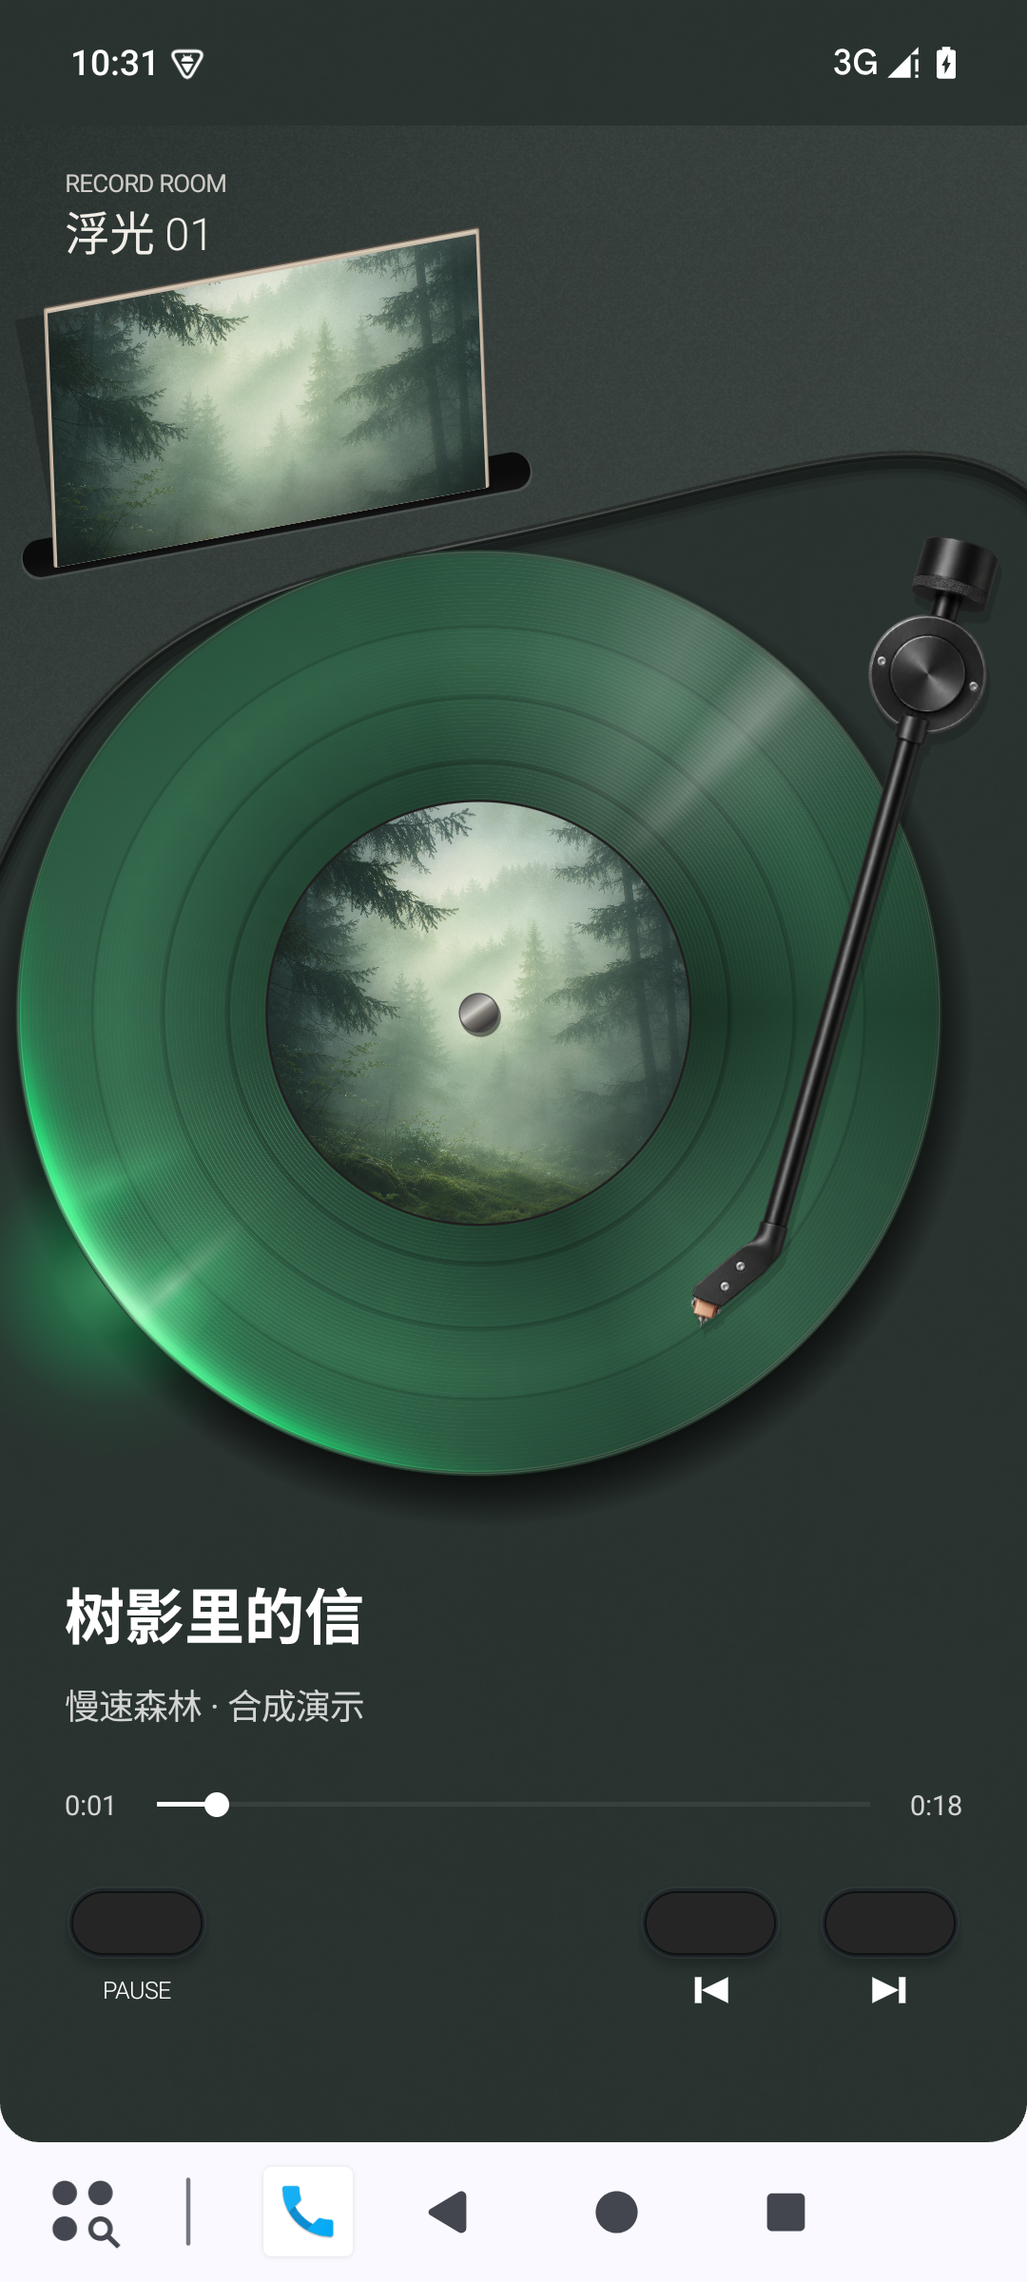
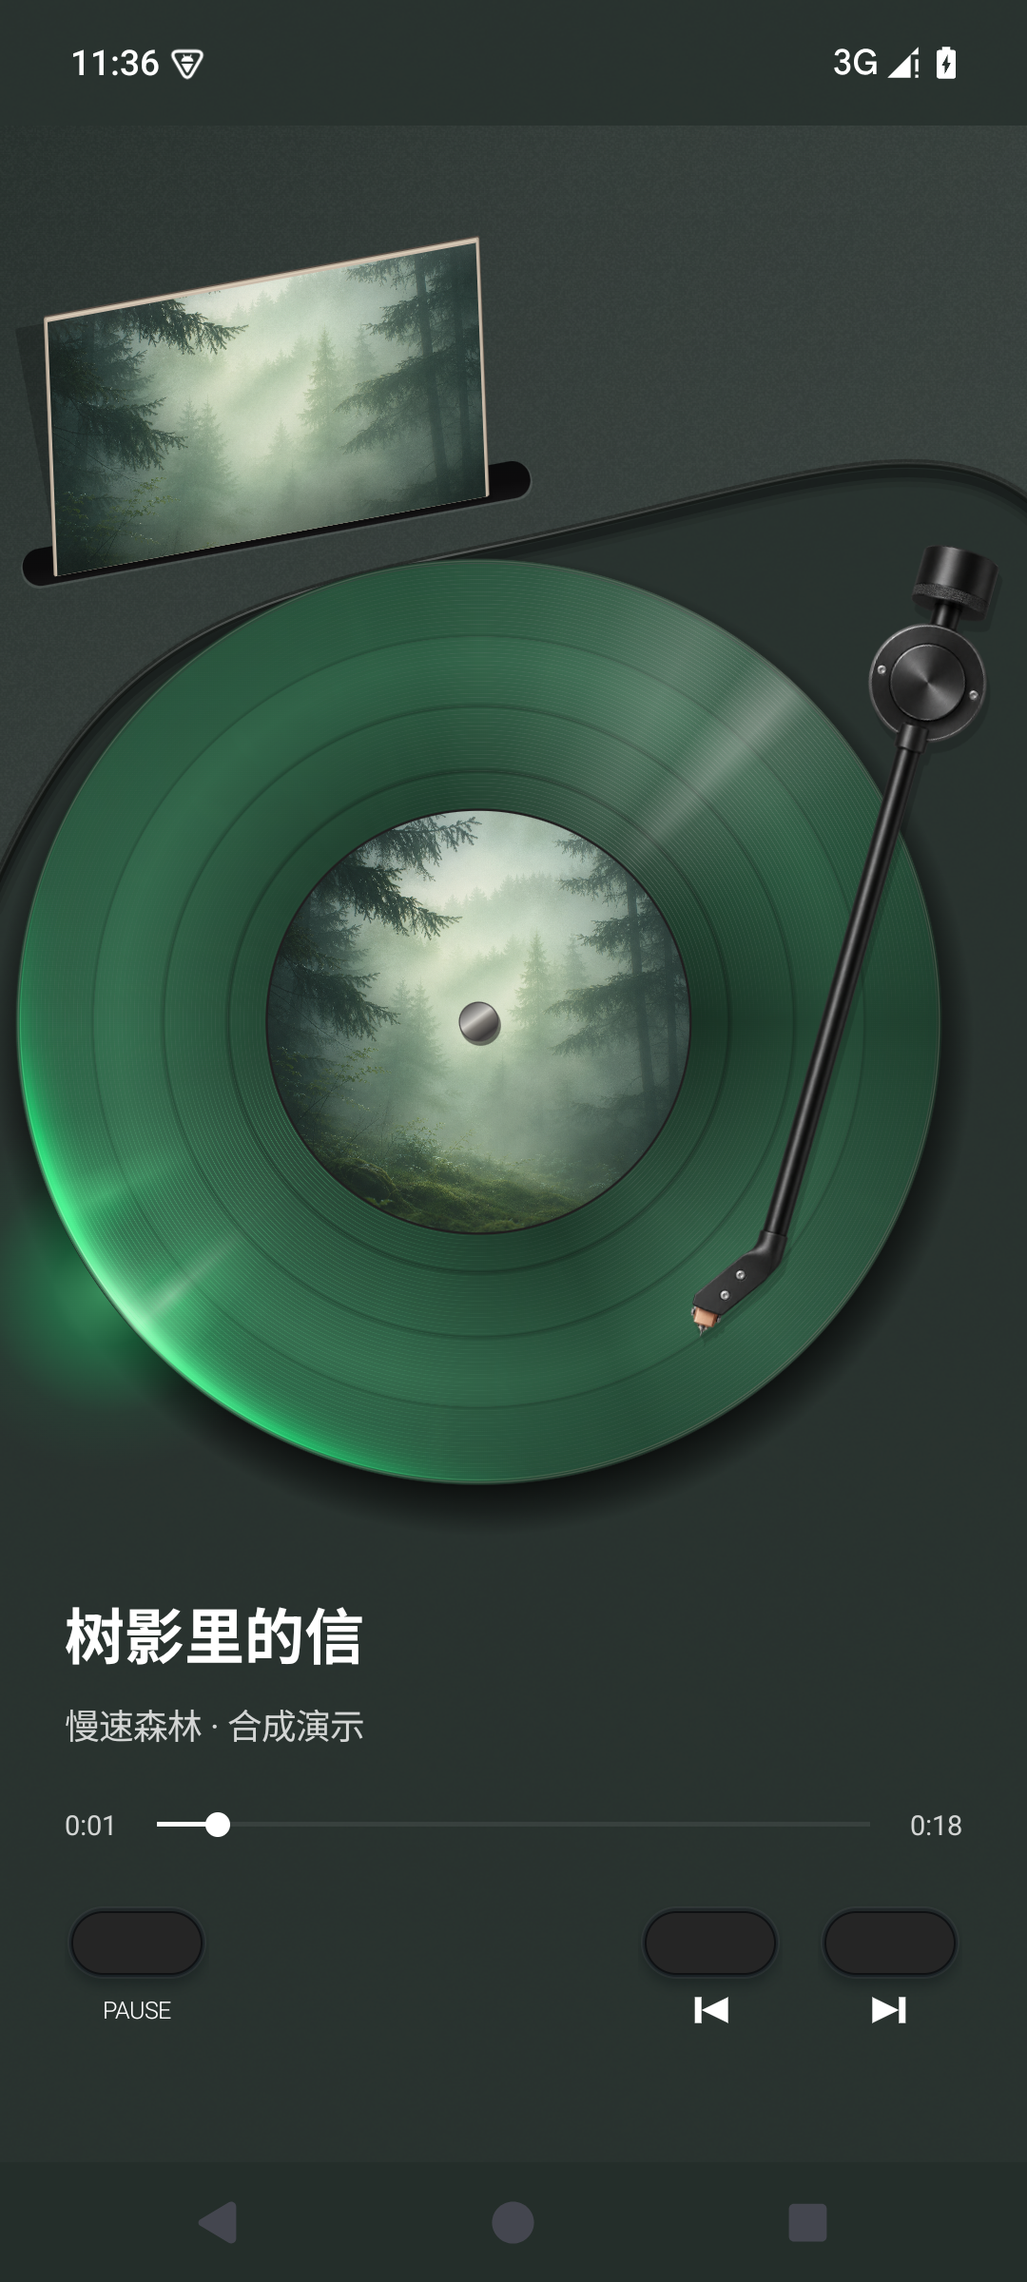
Release 0.7.9 with a clean turntable faceplate

diff --git a/app/src/main/java/com/recordroom/vinyl/FuguangDeck.java b/app/src/main/java/com/recordroom/vinyl/FuguangDeck.java
@@ -3,7 +3,6 @@ package com.recordroom.vinyl;
 import android.graphics.Bitmap;
 import android.graphics.BitmapShader;
 import android.graphics.Canvas;
-import android.graphics.Color;
 import android.graphics.LinearGradient;
 import android.graphics.Matrix;
 import android.graphics.Paint;
@@ -11,14 +10,12 @@ import android.graphics.Path;
 import android.graphics.Rect;
 import android.graphics.RectF;
 import android.graphics.Shader;
-import android.graphics.Typeface;
 
 /** Stationary moulded chassis and a jacket seated in its rear pocket.
  * Geometry and materials are prepared on resize, never while the platter spins. */
 final class FuguangDeck {
     private final Paint p = new Paint(Paint.ANTI_ALIAS_FLAG | Paint.DITHER_FLAG);
     private final Paint art = new Paint(Paint.ANTI_ALIAS_FLAG | Paint.FILTER_BITMAP_FLAG);
-    private final Paint lettering = new Paint(Paint.ANTI_ALIAS_FLAG | Paint.SUBPIXEL_TEXT_FLAG);
     private final Path top = new Path(), seam = new Path();
     private final RectF pocket = new RectF(), sleeve = new RectF(), inward = new RectF();
     private final Matrix noiseScale = new Matrix();
@@ -40,18 +37,8 @@ final class FuguangDeck {
     }
     private final BitmapShader grainShader = new BitmapShader(grainTile(),Shader.TileMode.REPEAT,Shader.TileMode.REPEAT);
     private Shader upperLight, edgeLight, socket, jacketShading;
-    private float u, left, bottom, tilt, headerX, brandY, modelY, brandSize, modelSize;
-    private boolean showSleeve, lightCase;
-    private int baseColor = 0xff242120;
-    private final Typeface brand = Typeface.create("sans-serif",Typeface.NORMAL);
-    private final Typeface model = Typeface.create("sans-serif-light",Typeface.NORMAL);
-
-    boolean setColor(int base) {
-        if(base==baseColor) return false;
-        baseColor = base;
-        lightCase = Color.luminance(baseColor) > .34;
-        return true;
-    }
+    private float u, left, bottom, tilt;
+    private boolean showSleeve;
 
     void prepare(int width, int height, float cy, float radius, float density) {
         // u is a pixel in the 842-wide concept, scaled to the available machine, not to the screen diagonal.
@@ -74,15 +61,10 @@ final class FuguangDeck {
         noiseScale.setScale(Math.max(.72f,Math.min(1.45f,density*.72f)),Math.max(.72f,Math.min(1.45f,density*.72f)));
         grainShader.setLocalMatrix(noiseScale);
 
-        headerX = Math.min(w*.070f,26*density);
-        brandSize = Math.max(8*density,Math.min(10*density,20*u));
-        modelSize = Math.max(14*density,Math.min(19*density,37*u));
-        brandY = Math.min(38*u,17*density) + brandSize;
-        modelY = brandY + modelSize*1.28f;
-
-        // Allocate the pocket in available space ABOVE the disc. Short viewports
-        // keep the artwork recognisable without drawing through transport controls.
-        float clearTop = modelY + 10*density;
+        // Reserve the upper controls' inset before sizing the sleeve.
+        float compactInset = Math.max(8*density, Math.min(10*density, 20*u));
+        float largeInset = Math.max(14*density, Math.min(19*density, 37*u));
+        float clearTop = Math.min(38*u, 17*density) + compactInset + largeInset*1.28f + 10*density;
         bottom = Math.max(0, rear-18*u);
         // On a shorter machine the platter only reaches this height at its centre.
         // Nest the jacket into the empty upper-left shoulder; draw order naturally
@@ -92,9 +74,8 @@ final class FuguangDeck {
         if(shallow)bottom+=Math.min(radius*.29f, clearTop+desiredRise-bottom);
         float available = bottom - clearTop;
         if (available<37*density && width>=144*density) {
-            // Very shallow landscape: pair the nameplate and the jacket horizontally.
-            // The nameplate remains in the left-hand player pane, away from controls.
-            headerX=w*.56f; clearTop=7*density; available=bottom-clearTop;
+            // Use the upper-left shoulder when vertical space is scarce.
+            clearTop=7*density; available=bottom-clearTop;
         }
         showSleeve = available >= 16*density && width >= 112*density && height >= 98*density;
         if (!showSleeve) return;
@@ -121,10 +102,6 @@ final class FuguangDeck {
         p.setShader(grainShader);p.setAlpha(118);c.drawPath(top,p);p.setShader(null);p.setAlpha(255);
         p.setStyle(Paint.Style.STROKE);p.setStrokeWidth(Math.max(.65f,1.7f*u));p.setShader(edgeLight);c.drawPath(seam,p);p.setShader(null);p.setStyle(Paint.Style.FILL);
         if (showSleeve) drawJacket(c,cover);
-        lettering.setTypeface(brand);lettering.setTextSize(brandSize);lettering.setColor(lightCase?0xff413d39:0xffcfccc7);
-        c.drawText("RECORD ROOM",headerX,brandY,lettering);
-        lettering.setTypeface(model);lettering.setTextSize(modelSize);lettering.setColor(lightCase?0xff211f1d:0xfff1eee8);
-        c.drawText("浮光 01",headerX,modelY,lettering);
     }
 
     private void drawJacket(Canvas c,Bitmap cover) {

diff --git a/tools/native-qa/tests/com/recordroom/vinyl/AutomaticCoverColorTest.java b/tools/native-qa/tests/com/recordroom/vinyl/AutomaticCoverColorTest.java
@@ -41,8 +41,8 @@ public class AutomaticCoverColorTest {
         ThemeStore themes=new ThemeStore(context);Bitmap red=solid(0xffe02935),blue=solid(0xff2362d8);AlbumPalette warm=AlbumPalette.from(red),cool=AlbumPalette.from(blue);
         FrameLayout host=new FrameLayout(context);TurntableView turntable=new TurntableView(context);turntable.setReferenceLayout(true);turntable.setMotionEnabled(false);turntable.setLighting(0);host.addView(turntable,new FrameLayout.LayoutParams(-1,-1));controller.get().setContentView(host);layout(host);
         try{for(int style=0;style<DiscMaterials.COUNT;style++){
-            turntable.setStyle(style);awaitAssets();themes.coverPalette("warm",warm);int warmBase = DesignSystem.deckColor(themes,"warm");host.setBackground(DesignSystem.surface(context,warmBase));turntable.setDeckColor(warmBase);turntable.setArtwork(red);turntable.setRecordTint(themes.deckTint("warm"));Bitmap first=render(host);
-            themes.coverPalette("cool",cool);int coolBase = DesignSystem.deckColor(themes,"cool");host.setBackground(DesignSystem.surface(context,coolBase));turntable.setDeckColor(coolBase);turntable.setArtwork(blue);turntable.setRecordTint(themes.deckTint("cool"));Bitmap second=render(host);
+            turntable.setStyle(style);awaitAssets();themes.coverPalette("warm",warm);int warmBase = DesignSystem.deckColor(themes,"warm");host.setBackground(DesignSystem.surface(context,warmBase));turntable.setArtwork(red);turntable.setRecordTint(themes.deckTint("warm"));Bitmap first=render(host);
+            themes.coverPalette("cool",cool);int coolBase = DesignSystem.deckColor(themes,"cool");host.setBackground(DesignSystem.surface(context,coolBase));turntable.setArtwork(blue);turntable.setRecordTint(themes.deckTint("cool"));Bitmap second=render(host);
             float cx=ReflectionHelpers.getField(turntable,"cx"),cy=ReflectionHelpers.getField(turntable,"cy"),radius=ReflectionHelpers.getField(turntable,"radius");double[] a=ring(first,cx,cy,radius),b=ring(second,cx,cy,radius);
             System.out.println("AUTO_MATERIAL style="+style+" red_delta="+(a[0]-b[0])+" blue_delta="+(b[2]-a[2]));
             if(style==0||style==5||style==8){write(first,"automatic-red-material-"+style+".png");write(second,"automatic-blue-material-"+style+".png");}

diff --git a/tools/native-qa/tests/com/recordroom/vinyl/CoverContrastRefinementTest.java b/tools/native-qa/tests/com/recordroom/vinyl/CoverContrastRefinementTest.java
@@ -34,7 +34,7 @@ public class CoverContrastRefinementTest {
   for(int i=0;i<colors.length;i++){
    Bitmap cover=Bitmap.createBitmap(128,128,Bitmap.Config.ARGB_8888);cover.eraseColor(colors[i]);AlbumPalette palette=AlbumPalette.from(cover);themes.coverPalette("fixture",palette);int stage=DesignSystem.stageColor(themes,"fixture");DesignSystem.setAlbumTheme(context,"fixture",stage,palette.record);turntable.setArtwork(cover);turntable.setRecordTint(themes.deckTint("fixture"));
    for(int material:new int[]{0,5,8}){
-    themes.save("fixture",false,material,0xff222222);stage=DesignSystem.stageColor(themes,"fixture");int deck=DesignSystem.deckColor(themes,"fixture");host.setBackground(DesignSystem.surface(context,deck));turntable.setDeckColor(deck);DesignSystem.setAlbumTheme(context,"fixture",stage,palette.record);turntable.setStyle(material);assets.submit(()->{}).get(10,java.util.concurrent.TimeUnit.SECONDS);Shadows.shadowOf(android.os.Looper.getMainLooper()).idle();Bitmap image=Bitmap.createBitmap(412,860,Bitmap.Config.ARGB_8888);host.draw(new Canvas(image));
+    themes.save("fixture",false,material,0xff222222);stage=DesignSystem.stageColor(themes,"fixture");int deck=DesignSystem.deckColor(themes,"fixture");host.setBackground(DesignSystem.surface(context,deck));DesignSystem.setAlbumTheme(context,"fixture",stage,palette.record);turntable.setStyle(material);assets.submit(()->{}).get(10,java.util.concurrent.TimeUnit.SECONDS);Shadows.shadowOf(android.os.Looper.getMainLooper()).idle();Bitmap image=Bitmap.createBitmap(412,860,Bitmap.Config.ARGB_8888);host.draw(new Canvas(image));
     float cx=org.robolectric.util.ReflectionHelpers.getField(turntable,"cx"),cy=org.robolectric.util.ReflectionHelpers.getField(turntable,"cy"),r=org.robolectric.util.ReflectionHelpers.getField(turntable,"radius");double ring=0;int n=0;
     for(int degrees=105;degrees<=255;degrees+=5){double a=Math.toRadians(degrees);int pixel=image.getPixel(Math.round(cx+(float)Math.cos(a)*r*.74f),Math.round(cy+(float)Math.sin(a)*r*.74f));ring+=Color.luminance(pixel);n++;}
     double separation=(ring/n+.05)/(Color.luminance(image.getPixel(12,600))+.05);assertTrue("Actual textured record must remain distinguishable: "+names[i]+"/"+material+" ratio="+separation,separation>=1.5);

diff --git a/app/src/main/java/com/recordroom/vinyl/MainActivity.java b/app/src/main/java/com/recordroom/vinyl/MainActivity.java
@@ -442,7 +442,7 @@ public final class MainActivity extends Activity {
             }else root.setBackground(nextSurface);
             playerSurface=nextSurface;playerSurfaceColor=color;
         }
-        turntable.setDeckColor(color);turntable.setStyle(themes.disc(albumKey()));turntable.setRecordTint(themes.deckTint(albumKey()));
+        turntable.setStyle(themes.disc(albumKey()));turntable.setRecordTint(themes.deckTint(albumKey()));
         turntable.setMotionEnabled(themes.motion()); turntable.setLighting(themes.lighting());
         if(themes.keepAwake())getWindow().addFlags(WindowManager.LayoutParams.FLAG_KEEP_SCREEN_ON);else getWindow().clearFlags(WindowManager.LayoutParams.FLAG_KEEP_SCREEN_ON);
         ink = readableInk(color); mutedInk = blend(ink,color,.20f);

diff --git a/app/src/main/java/com/recordroom/vinyl/TurntableView.java b/app/src/main/java/com/recordroom/vinyl/TurntableView.java
@@ -102,7 +102,6 @@ public final class TurntableView extends View {
         if (referenceLayout) {rebuild(); invalidate();}
     }
     /** Keep faceplate lettering readable when users select a light manual finish. */
-    public void setDeckColor(int color) { if(cabinet.setColor(color)) invalidate(); }
 
     private float labelRatio() { return referenceLayout ? .455f : DesignSystem.RECORD_LABEL_RATIO; }
     public void setNeedleListener(NeedleListener listener) { needleListener = listener; }

diff --git a/docs/VERIFICATION.md b/docs/VERIFICATION.md
@@ -1,5 +1,15 @@
 # 版本验证记录
 
+## 0.7.9 · 播放页字标调整
+
+2026-11-12。版本代码 20。公开源码编译后沿用发行签名，安装包通过 v2/v3 验签和 16 KB ZIP 对齐检查。
+
+- 474 项自动测试通过。在 Android 15 ARM64 模拟器上从 0.7.8 覆盖升级，连续三次冷启动通过。
+- 用发行 APK 播放内置音频，验证同专辑切歌、拖动进度、暂停和恢复、跨专辑换色、宽屏播放和工具入口。[琥珀播放页](screenshots/player.png) · [森林播放页](screenshots/player-forest.png) · [宽屏播放页](screenshots/wide-player.png)。
+- 本轮使用模拟器，OPPO Find N6 真机、外接 DAC 和在线会员播放未实测。
+
[1 lines of base64/hex data omitted]
+
 ## 浮光 01 · 0.7.8
 
 2026-11-12。Android 包名 `com.recordroom.vinyl`，版本代码 19。发行 APK 取自公开源码的构建输出并使用原发行签名；签名证书 SHA-256 与 0.7.7 一致，APK 通过 v2/v3 验签和 16 KB ZIP 对齐检查。
@@ -7,7 +17,7 @@
 - 在公开源码运行全部 474 项自动测试，通过。覆盖暖窗取光、灰阶/高饱和封面、材质、固定灯位、封套随封面更新且不随盘旋转，以及主屏/队列进度、无障碍定位和媒体会话更新。
 - 在 Android 15 / API 35 ARM64 模拟器，从原 0.7.7 安装包覆盖安装本次发行文件，随后 3 次冷启动均正常。
 - 使用实际 APK 和内置音频：暖色《午夜慢行》切至同专辑下一首，封套保持；从主屏拖动真实进度条到约 10 秒，暂停及恢复均有效；换《树影里的信》后封面与灯色均更新。切到宽屏仍保持播放，返回竖屏可打开工具。
-- [琥珀播放页](screenshots/player.png) · [森林播放页](screenshots/player-forest.png) · [宽屏播放页](screenshots/wide-player.png)。均为模拟器运行发行 APK 的截图。
+- [琥珀播放页](https://github.com/liudbhx7-bot/record-room-android/blob/v0.7.8/docs/screenshots/player.png) · [森林播放页](https://github.com/liudbhx7-bot/record-room-android/blob/v0.7.8/docs/screenshots/player-forest.png) · [宽屏播放页](https://github.com/liudbhx7-bot/record-room-android/blob/v0.7.8/docs/screenshots/wide-player.png)。均为模拟器运行发行 APK 的截图。
 
[1 lines of base64/hex data omitted]
 

diff --git a/docs/USER_GUIDE.md b/docs/USER_GUIDE.md
@@ -2,14 +2,14 @@
 
 [返回项目主页](../README.md) · [常见问题](FAQ.md) · [反馈问题](https://github.com/liudbhx7-bot/record-room-android/issues/new/choose)
 
-适用于 **Record Room / 唱片机 0.7.8 预览版**。在线服务的可播放范围由对应平台与账号决定；当前验证范围见[验证记录](VERIFICATION.md)。
+适用于 **Record Room / 唱片机 0.7.9 预览版**。在线服务的可播放范围由对应平台与账号决定；当前验证范围见[验证记录](VERIFICATION.md)。
 
 ## 安装与更新
 
-1. 打开 [v0.7.8 Release](https://github.com/liudbhx7-bot/record-room-android/releases/tag/v0.7.8)。
-2. 下载 `Record-Room-0.7.8-Android.apk`。不要把 `Source code` 源码压缩包当作安装包。
+1. 打开 [v0.7.9 Release](https://github.com/liudbhx7-bot/record-room-android/releases/tag/v0.7.9)。
+2. 下载 `Record-Room-0.7.9-Android.apk`。不要把 `Source code` 源码压缩包当作安装包。
 3. 在 Android 上打开 APK，按系统提示允许当前下载来源安装应用，再完成安装。
-4. 系统应用信息中的版本应为 `0.7.8`，版本代码 `19`，包名 `com.recordroom.vinyl`。
+4. 系统应用信息中的版本应为 `0.7.9`，版本代码 `20`，包名 `com.recordroom.vinyl`。
 
 最低系统为 Android 8.0（API 26），面向 ARM / ARM64 设备。最低系统要求不代表所有机型都已实测。
 
@@ -29,7 +29,7 @@
 
 ## 播放页与唱针
 
-安装 0.7.8 后，进入播放页即可使用「浮光 01」。选一首带封面的歌曲，机身后方的封套与盘心会显示这张封面，左下盘缘随封面色调发光。
+安装 0.7.9 后，进入播放页即可使用「浮光 01」。选一首带封面的歌曲，机身后方的封套与盘心会显示这张封面，左下盘缘随封面色调发光。
 
 | 操作 | 行为 |
 | --- | --- |

diff --git a/docs/FAQ.md b/docs/FAQ.md
@@ -4,7 +4,7 @@
 
 ## 应该下载哪个文件？
 
-下载 [Record-Room-0.7.8-Android.apk](https://github.com/liudbhx7-bot/record-room-android/releases/download/v0.7.8/Record-Room-0.7.8-Android.apk)。Release 中的 `Source code` 是源码，不能直接安装到手机。
+下载 [Record-Room-0.7.9-Android.apk](https://github.com/liudbhx7-bot/record-room-android/releases/download/v0.7.9/Record-Room-0.7.9-Android.apk)。Release 中的 `Source code` 是源码，不能直接安装到手机。
 
 当前发布的是 Android 预览版，最低 Android 8.0（API 26），面向 ARM / ARM64 设备。没有发布 Windows、macOS 或 iOS 安装包。
 
@@ -16,7 +16,7 @@
 
 ## 怎样启用浮光 01？
 
-安装或覆盖更新到 0.7.8 后，播放页会直接显示浮光 01，无需购买或单独启用。设置页底部和 Android 的应用信息均可查看版本，本次版本代码为 `19`。
+安装或覆盖更新到 0.7.9 后，播放页会直接显示浮光 01，无需购买或单独启用。设置页底部和 Android 的应用信息均可查看版本，本次版本代码为 `20`。
 
 ## 为什么有时进度条不能拖动？
 

diff --git a/docs/BUILDING.md b/docs/BUILDING.md
@@ -70,7 +70,7 @@ python3 tools/build.py \
   --platform-jar "$ANDROID_SDK_ROOT/platforms/android-36/android.jar"
 ```
 
-当前版本产物为 `dist/vinyl-baseline-v0.7.8.apk`（版本代码 19），摘要位于 `dist/SHA256SUMS.txt`。版本和文件名从 AndroidManifest.xml 读取。构建会核对依赖摘要、合并真实 SDK 资源与声明、清除 Apple 授权模块的敏感调试日志，并验证 APK 签名及 16 KB 对齐。
+当前版本产物为 `dist/vinyl-baseline-v0.7.9.apk`（版本代码 20），摘要位于 `dist/SHA256SUMS.txt`。版本和文件名从 AndroidManifest.xml 读取。构建会核对依赖摘要、合并真实 SDK 资源与声明、清除 Apple 授权模块的敏感调试日志，并验证 APK 签名及 16 KB 对齐。
 
 自签构建与 Release APK 不会有相同 SHA-256。公开导出还省略了已经停用的汽水直连网页资源，清单见 [excluded-legacy-assets.json](excluded-legacy-assets.json)；官方 App 媒体联动不使用这些资源。原 0.7.7 Release APK 保留其已验证的原始字节与签名。
 

diff --git a/docs/README.md b/docs/README.md
@@ -6,7 +6,7 @@
 | 会员播放、授权失败、封面与安装问题 | [常见问题](FAQ.md) |
 | 依赖、MusicKit、自签构建、测试 | [构建指南](BUILDING.md) |
 | 页面、目录、播放和联动模块 | [开发结构](ARCHITECTURE.md) |
-| 0.7.8 做过哪些验证 | [验证记录](VERIFICATION.md) |
+| 0.7.9 做过哪些验证 | [验证记录](VERIFICATION.md) |
 | 公开源码与私有开发目录的区别 | [公开源码](PUBLIC_SOURCE.md) |
 | 数据与系统权限 | [隐私说明](../PRIVACY.md) |
 | 第三方代码、服务和资产 | [第三方说明](../THIRD_PARTY.md) |

diff --git a/CHANGELOG.md b/CHANGELOG.md
@@ -1,5 +1,12 @@
 # 更新记录
 
+## 0.7.9 · 2026-11-12 · 预览版
+
+- 移除默认唱机播放页左上角的两行字标。
+- Android 版本代码为 20，支持从同签名的 0.7.8 覆盖安装。
+
+[下载 0.7.9](https://github.com/liudbhx7-bot/record-room-android/releases/tag/v0.7.9) · [本版验证记录](docs/VERIFICATION.md)
+
 ## 0.7.8 · 浮光 01 · 预览版
 
 - 默认唱机升级为浮光 01，新增后方封套槽、烟色唱盘和随封面变化的左下边缘灯光，沿用现有唱针与三个实体按键。
